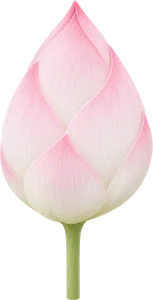
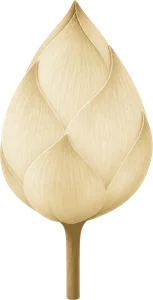
蓮花改成金蓮：金色的花、青瓷色的荷葉（跟大門屋瓦同色），用原圖的明暗換色

diff --git a/tools/gold_lotus.py b/tools/gold_lotus.py
@@ -1,0 +1,88 @@
+"""把蓮花（花、花苞、荷葉）改成網頁風格的金蓮：照亮暗程度換成金色漸層，保留原本的明暗和細節。
+用法: python -I tools/gold_lotus.py [preview|apply] [A|B]
+  A＝花和葉都是金色；B＝金色的花、青瓷色的葉（跟大門的瓦一樣）
+preview：在背景圖上排一張比較圖；apply：寫進 assets/elements/lotus-*.webp
+"""
+import sys
+from pathlib import Path
+
+import numpy as np
+from PIL import Image
+
+RAW = Path("assets/raw/chatgpt2")
+OUT = Path("assets/elements")
+
+# 漸層：亮度 0～1 → 顏色
+PETAL = [(0.0, "#7a5c2c"), (0.3, "#b8955a"), (0.6, "#e0c995"), (0.82, "#f4ead2"), (1.0, "#fffcf5")]
+LEAF_GOLD = [(0.0, "#6b5a36"), (0.4, "#a8935f"), (0.7, "#d3c49a"), (1.0, "#f1e9d3")]
+LEAF_CELADON = [(0.0, "#55685d"), (0.4, "#93a89b"), (0.7, "#c3d2c7"), (1.0, "#edf2ec")]
+
+
+def hex2rgb(h):
+    return np.array([int(h[i : i + 2], 16) for i in (1, 3, 5)], float)
+
+
+def gradient_map(im, stops, lift=0.0):
+    arr = np.asarray(im.convert("RGBA")).astype(float)
+    lum = (arr[..., :3] @ np.array([0.299, 0.587, 0.114])) / 255
+    a = arr[..., 3] > 0
+    lo, hi = np.percentile(lum[a], 2), np.percentile(lum[a], 99.5)
+    t = np.clip((lum - lo) / max(hi - lo, 1e-6), 0, 1) * (1 - lift) + lift
+    xs = [s[0] for s in stops]
+    cols = np.stack([hex2rgb(s[1]) for s in stops])
+    out = np.stack([np.interp(t, xs, cols[:, k]) for k in range(3)], -1)
+    arr[..., :3] = out
+    return Image.fromarray(arr.clip(0, 255).astype(np.uint8), "RGBA")
+
+
+def prep(name, height=300):
+    im = Image.open(RAW / f"{name}.png").convert("RGBA")
+    a = np.asarray(im)[..., 3]
+    im.putalpha(Image.fromarray(np.where(a < 8, 0, a).astype(np.uint8)))
+    im = im.crop(im.getbbox())
+    return im.resize((round(im.width * height / im.height), height), Image.LANCZOS)
+
+
+def make(variant):
+    leaf = LEAF_GOLD if variant == "A" else LEAF_CELADON
+    return {
+        "lotus-open": gradient_map(prep("lotus-open"), PETAL, 0.05),
+        "lotus-bud": gradient_map(prep("lotus-bud"), PETAL, 0.05),
+        "lotus-leaf": gradient_map(prep("lotus-leaf"), leaf, 0.1),
+    }
+
+
+def scene(parts, bg):
+    """跟網頁一樣的畫法：荷葉壓扁平躺，花坐在中間"""
+    c = bg.copy()
+    s = 220
+    for i, x in enumerate([180, 520]):
+        y = 300
+        leaf = parts["lotus-leaf"]
+        lw = int(s * 1.5)
+        lh = int(lw * 0.45 * leaf.height / leaf.width)
+        c.alpha_composite(leaf.resize((lw, lh), Image.LANCZOS), (x - lw // 2, y - lh // 2))
+        fl = parts["lotus-open" if i == 0 else "lotus-bud"]
+        fw = s if i == 0 else int(s * 0.95 * fl.width / fl.height)
+        fh = int(fw * fl.height / fl.width)
+        top = y - int(fh * 0.78) if i == 0 else y + int(lh * 0.1) - fh
+        c.alpha_composite(fl.resize((fw, fh), Image.LANCZOS), (x - fw // 2, top))
+    return c
+
+
+if __name__ == "__main__":
+    mode = sys.argv[1] if len(sys.argv) > 1 else "preview"
+    if mode == "preview":
+        bg = Image.open("assets/bg-yaochi.webp").convert("RGBA")
+        bg = bg.crop((300, 560, 1000, 960)).resize((700, 400))
+        old = {n: prep(n) for n in ("lotus-open", "lotus-bud", "lotus-leaf")}
+        rows = [scene(old, bg), scene(make("A"), bg), scene(make("B"), bg)]
+        sheet = Image.new("RGBA", (700, 1200 + 40), "#ece8e3")
+        for k, r in enumerate(rows):
+            sheet.alpha_composite(r, (0, k * 420))
+        sheet.convert("RGB").save(sys.argv[2])
+        print("saved", sys.argv[2])
+    else:
+        for n, im in make(sys.argv[2]).items():
+            im.save(OUT / f"{n}.webp", quality=84, method=6)
+            print("wrote", n, im.size)

diff --git a/tools/prep_elements.py b/tools/prep_elements.py
@@ -1,6 +1,7 @@
 """把仙佛元素的圖（透明背景 PNG）裁掉多餘的透明邊、縮小，存成網頁用的 webp。
 用法: python -I tools/prep_elements.py
 輸入: assets/raw/chatgpt2/rice.png、lotus-open.png、lotus-bud.png、lotus-leaf.png、tiger.png
+注意: 蓮花三張之後改用 tools/gold_lotus.py apply B 做成金蓮（這支會蓋回粉紅色，跑完要再跑一次 gold_lotus）
 輸出: assets/elements/*.webp，和 elements.json（每張多大、稻穗莖的底部在哪）
 """
 import json
